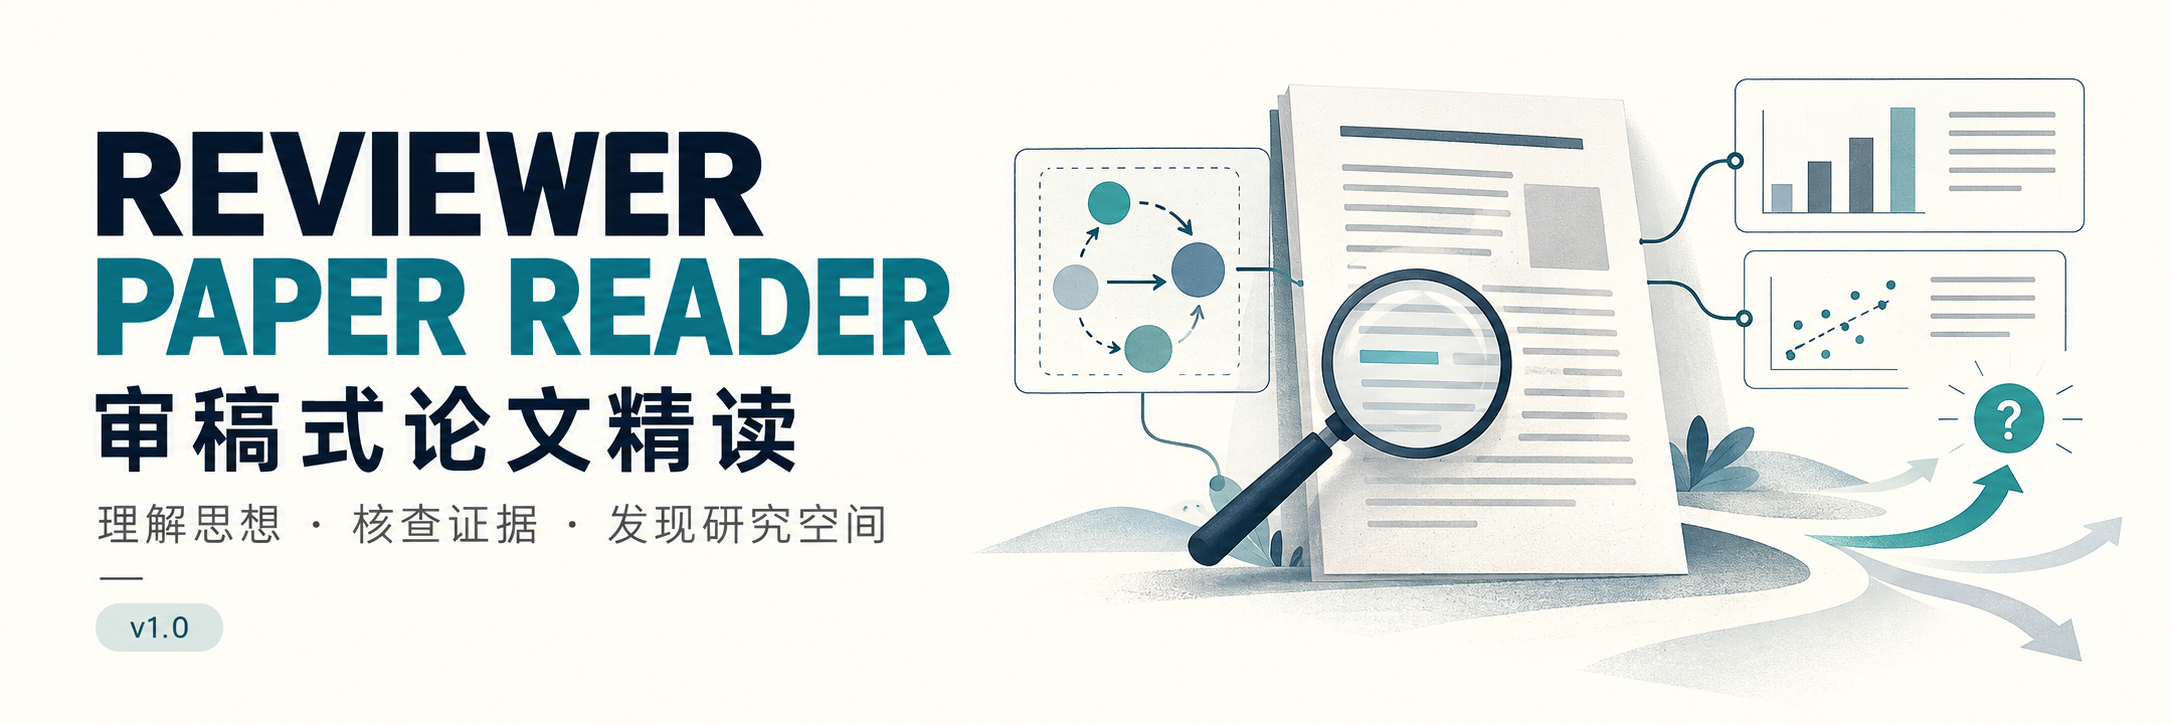
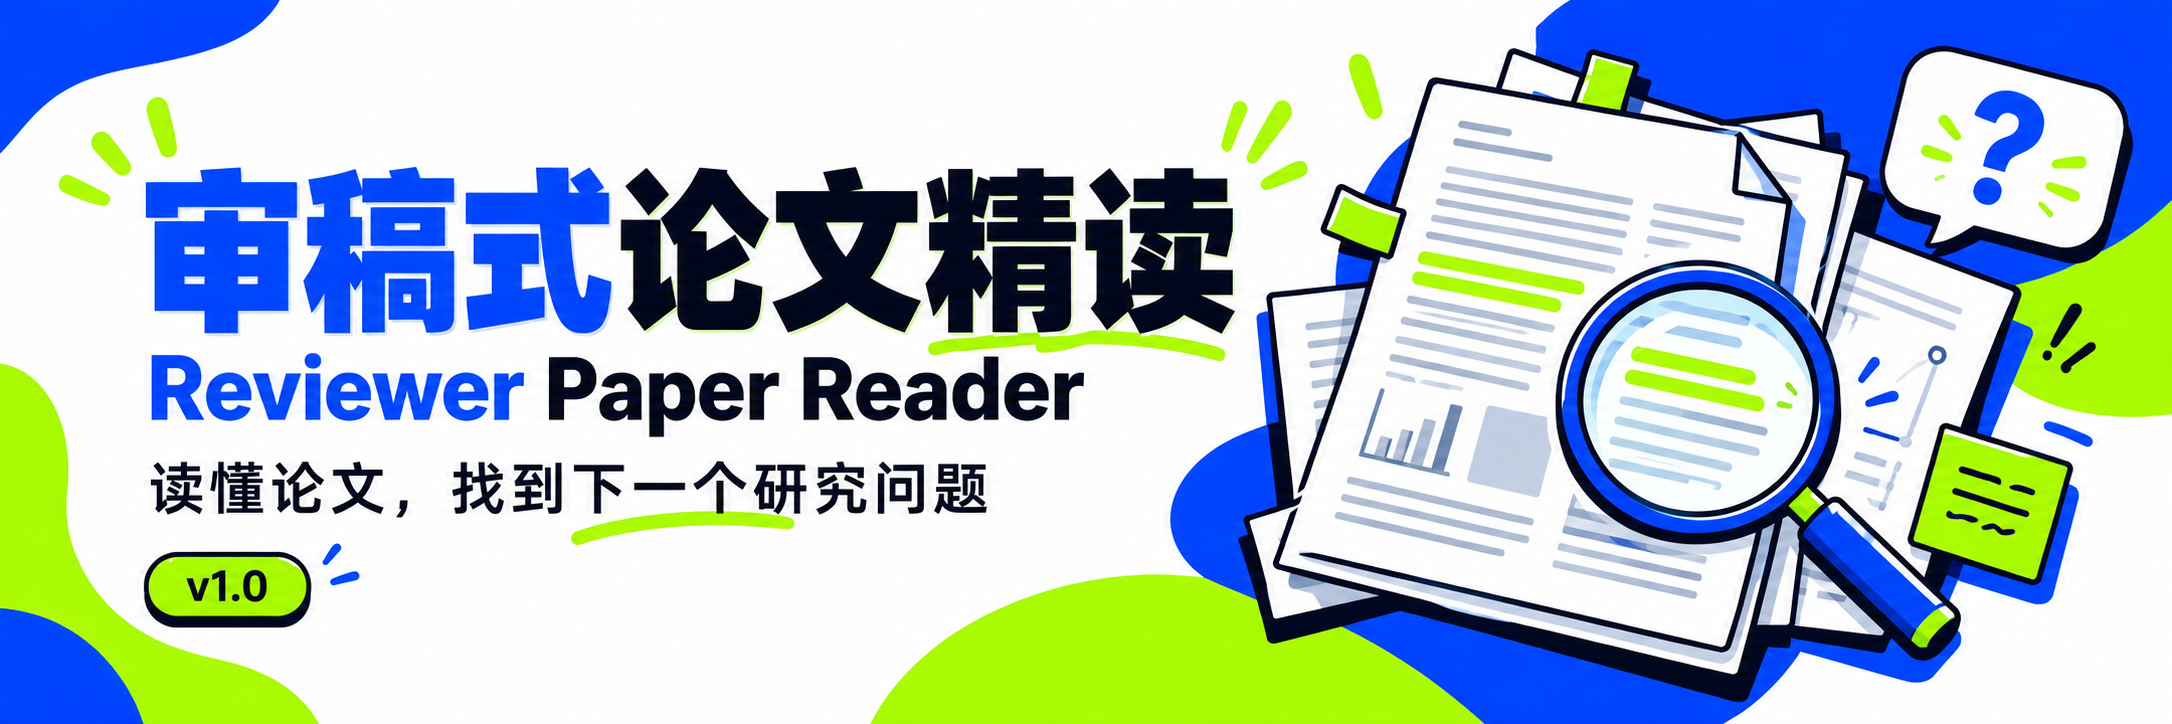
Refresh cover and document multi-agent installation

diff --git a/README.md b/README.md
@@ -4,7 +4,11 @@
 
 Reviewer Paper Reader · v1.0
 
-用于个人科研学习的 Codex skill，适合阅读 AI、机器学习、多模态、智能体和机器人领域的论文。提供一篇论文，就可以开始阅读；也可以只问某个方法、公式或实验。
+用于个人科研学习的论文阅读 skill，适合阅读 AI、机器学习、多模态、智能体和机器人领域的论文。提供一篇论文，就可以开始阅读；也可以只问某个方法、公式或实验。
+
+下文提供 Claude、Claude Code、WorkBuddy、Codex、Cursor 和 OpenCode 的安装说明。
+
+[下载 v1.0](downloads/reviewer-paper-reader-v1.0.zip) · [选择安装方式](#安装) · [开始阅读](#开始阅读)
 
 ## 读完能得到什么
 
@@ -20,25 +24,81 @@ Reviewer Paper Reader · v1.0
 
 ## 安装
 
-先[下载 v1.0 技能包](downloads/reviewer-paper-reader-v1.0.zip)，解压后，将整个 `reviewer-paper-reader` 文件夹放入 Codex 的技能目录。
+先[下载 v1.0 技能包](downloads/reviewer-paper-reader-v1.0.zip)，再按自己使用的平台安装。上传技能时选择这个 ZIP；手动安装时，先解压，再复制整个 `reviewer-paper-reader` 文件夹。
 
-使用默认目录的 macOS / Linux 用户，可以在解压后的目录运行：
+### Claude 网页版 / 桌面版
+
+1. 在设置中开启文件创建与代码执行能力（Create and edit files / Code execution and file creation）。
+2. 进入 **Customize → Skills**，点击 **+ → Create skill → Upload a skill**。
+3. 上传下载的 `reviewer-paper-reader-v1.0.zip`，在技能列表中启用它。
+4. 回到对话，上传论文，发送下方的阅读请求。
+
+无需解压 ZIP。团队账号若没有上传入口，请联系管理员确认技能权限。[Claude 官方说明](https://support.claude.com/en/articles/12512180-use-skills-in-claude)
+
+### WorkBuddy
+
+1. 在左侧打开 **专家·技能·连接器 → 技能**。
+2. 点击 **添加技能 → 上传技能**，选择 `reviewer-paper-reader-v1.0.zip`。
+3. 在“已安装”中确认技能已启用，然后在对话中上传论文并发出阅读请求。
+
+本包通过“上传技能”导入，不需要先在技能市场搜索。[WorkBuddy 官方说明](https://www.codebuddy.cn/docs/workbuddy/From-Beginner-to-Expert-Guide/Function-Description/Skills-Market)
+
+### Claude Code
+
+将解压得到的文件夹放入 `~/.claude/skills/`。在解压后的目录运行：
 
 ```bash
-mkdir -p ~/.codex/skills
-cp -R reviewer-paper-reader ~/.codex/skills/
+mkdir -p ~/.claude/skills
+cp -R reviewer-paper-reader ~/.claude/skills/
 ```
 
-如果已安装旧版，请先备份旧目录再替换。设置过 `CODEX_HOME` 的用户，安装到该目录下的 `skills/`。
+在 Claude Code 中输入 `/reviewer-paper-reader`，再附上论文与阅读要求。只想在当前项目使用，可改放到项目内的 `.claude/skills/`。[Claude Code 官方说明](https://code.claude.com/docs/en/skills)
 
-打开 Codex 对话，输入 `$reviewer-paper-reader` 调用。当前对话没有识别到时，可新建对话后再试。
+### Codex
+
+将解压得到的文件夹放入 `~/.agents/skills/`：
+
+```bash
+mkdir -p ~/.agents/skills
+cp -R reviewer-paper-reader ~/.agents/skills/
+```
+
+在 Codex 中输入 `$reviewer-paper-reader` 调用，或从技能选择器选中它。只想在当前项目使用，可放到项目内的 `.agents/skills/`。未识别到新技能时，重启 Codex 后再试。[Codex 官方说明](https://developers.openai.com/codex/skills/)
+
+### Cursor
+
+将解压得到的文件夹放入 `~/.cursor/skills/`：
+
+```bash
+mkdir -p ~/.cursor/skills
+cp -R reviewer-paper-reader ~/.cursor/skills/
+```
+
+在 Agent 对话中输入 `/`，搜索并选择 `reviewer-paper-reader`。只想在当前项目使用，可放到项目内的 `.cursor/skills/`。以上是本地 Agent 的安装方式；云端使用方式见 [Cursor 官方说明](https://cursor.com/docs/skills)。
+
+### OpenCode
+
+将解压得到的文件夹放入 `~/.config/opencode/skills/`：
+
+```bash
+mkdir -p ~/.config/opencode/skills
+cp -R reviewer-paper-reader ~/.config/opencode/skills/
+```
+
+在对话中说明“请使用 reviewer-paper-reader 阅读这篇论文”。只想在当前项目使用，可放到项目内的 `.opencode/skills/`。[OpenCode 官方说明](https://docs.opencode.ai/docs/skills/)
+
+上面的命令适用于 macOS / Linux。Windows 用户可在文件资源管理器中打开 `%USERPROFILE%`，按 `~` 后面的目录层级放置文件夹。例如，Claude Code 对应 `%USERPROFILE%\.claude\skills\reviewer-paper-reader\SKILL.md`。
+
+安装时请保留整个文件夹，勿只复制 `SKILL.md`，也不要额外嵌套一层同名目录。更新已有安装前，先备份旧文件夹。
+
+安装入口按各平台官方文档整理，尚未逐个平台实测。本 skill 使用当前 Agent 已有的 PDF 阅读、检索和文件工具；工具是否可用会影响全文获取、查新和笔记保存。
 
 ## 开始阅读
 
 上传 PDF 后，直接发送：
 
 ```text
-使用 $reviewer-paper-reader 阅读我上传的论文。
+请使用 reviewer-paper-reader 阅读我上传的论文。
 ```
 
 也可以提供论文链接、DOI、arXiv 编号，或当前项目中可访问的 PDF 路径。无需先填写背景资料。
@@ -46,7 +106,7 @@ cp -R reviewer-paper-reader ~/.codex/skills/
 如果有具体目标，可以一起说清楚：
 
 ```text
-使用 $reviewer-paper-reader 阅读这篇论文：[论文链接]。
+请使用 reviewer-paper-reader 阅读这篇论文：[论文链接]。
 我的研究方向是多模态智能体。
 请重点讲清方法、创新和实验，看看有哪些问题值得继续研究。
 ```
@@ -56,21 +116,21 @@ cp -R reviewer-paper-reader ~/.codex/skills/
 ### 先看看值不值得精读
 
 ```text
-使用 $reviewer-paper-reader 速读这篇论文：[论文]。
+请使用 reviewer-paper-reader 速读这篇论文：[论文]。
 先告诉我它做了什么、主要结果如何，以及哪些部分值得仔细看。
 ```
 
 ### 方法没看懂
 
 ```text
-使用 $reviewer-paper-reader 解释这篇论文的[方法或公式]。
+请使用 reviewer-paper-reader 解释这篇论文的[方法或公式]。
 请用一个具体例子讲清楚，必要的基础知识也一起解释。
 ```
 
 ### 想判断创新是否成立
 
 ```text
-使用 $reviewer-paper-reader 比较[论文A]和[论文B]。
+请使用 reviewer-paper-reader 比较[论文A]和[论文B]。
 它们的关键区别是什么？新增的部分是否有价值？
 请给出相关工作的依据。
 ```
@@ -78,7 +138,7 @@ cp -R reviewer-paper-reader ~/.codex/skills/
 ### 想从论文中找研究问题
 
 ```text
-使用 $reviewer-paper-reader 阅读[论文]。
+请使用 reviewer-paper-reader 阅读[论文]。
 结合我的[研究方向]，找一个值得先验证的问题。
 说清楚为什么值得做、先做什么实验、怎样判断是否继续。
 ```
@@ -86,14 +146,14 @@ cp -R reviewer-paper-reader ~/.codex/skills/
 ### 阅读 Zotero 中的论文
 
 ```text
-使用 $reviewer-paper-reader 阅读 Zotero 中的“[论文完整题名]”。
+请使用 reviewer-paper-reader 阅读 Zotero 中的“[论文完整题名]”。
 ```
 
-此方式需要 Codex 已连接可用的 Zotero 工具。没有连接时，直接上传 PDF 或提供论文链接即可。
+此方式需要当前 Agent 已连接可用的 Zotero 工具。没有连接时，直接上传 PDF 或提供论文链接即可。
 
 ## 阅读结果
 
-回复中会先给出论文的主要内容和判断，详细笔记保存为 Markdown，方便后续整理和回看。笔记通常包括方法说明、相关工作比较、实验分析、研究建议，以及关键内容的原文位置或链接。
+回复中会先给出论文的主要内容和判断，详细笔记保存为 Markdown，方便后续整理和回看。笔记通常包括方法说明、相关工作比较、实验分析、研究建议，以及关键内容的原文位置或链接。保存到本地目录需要当前 Agent 有文件写入能力；网页端可要求提供可下载的 Markdown 文件。
 
 需要指定保存位置时，加一句：
 
